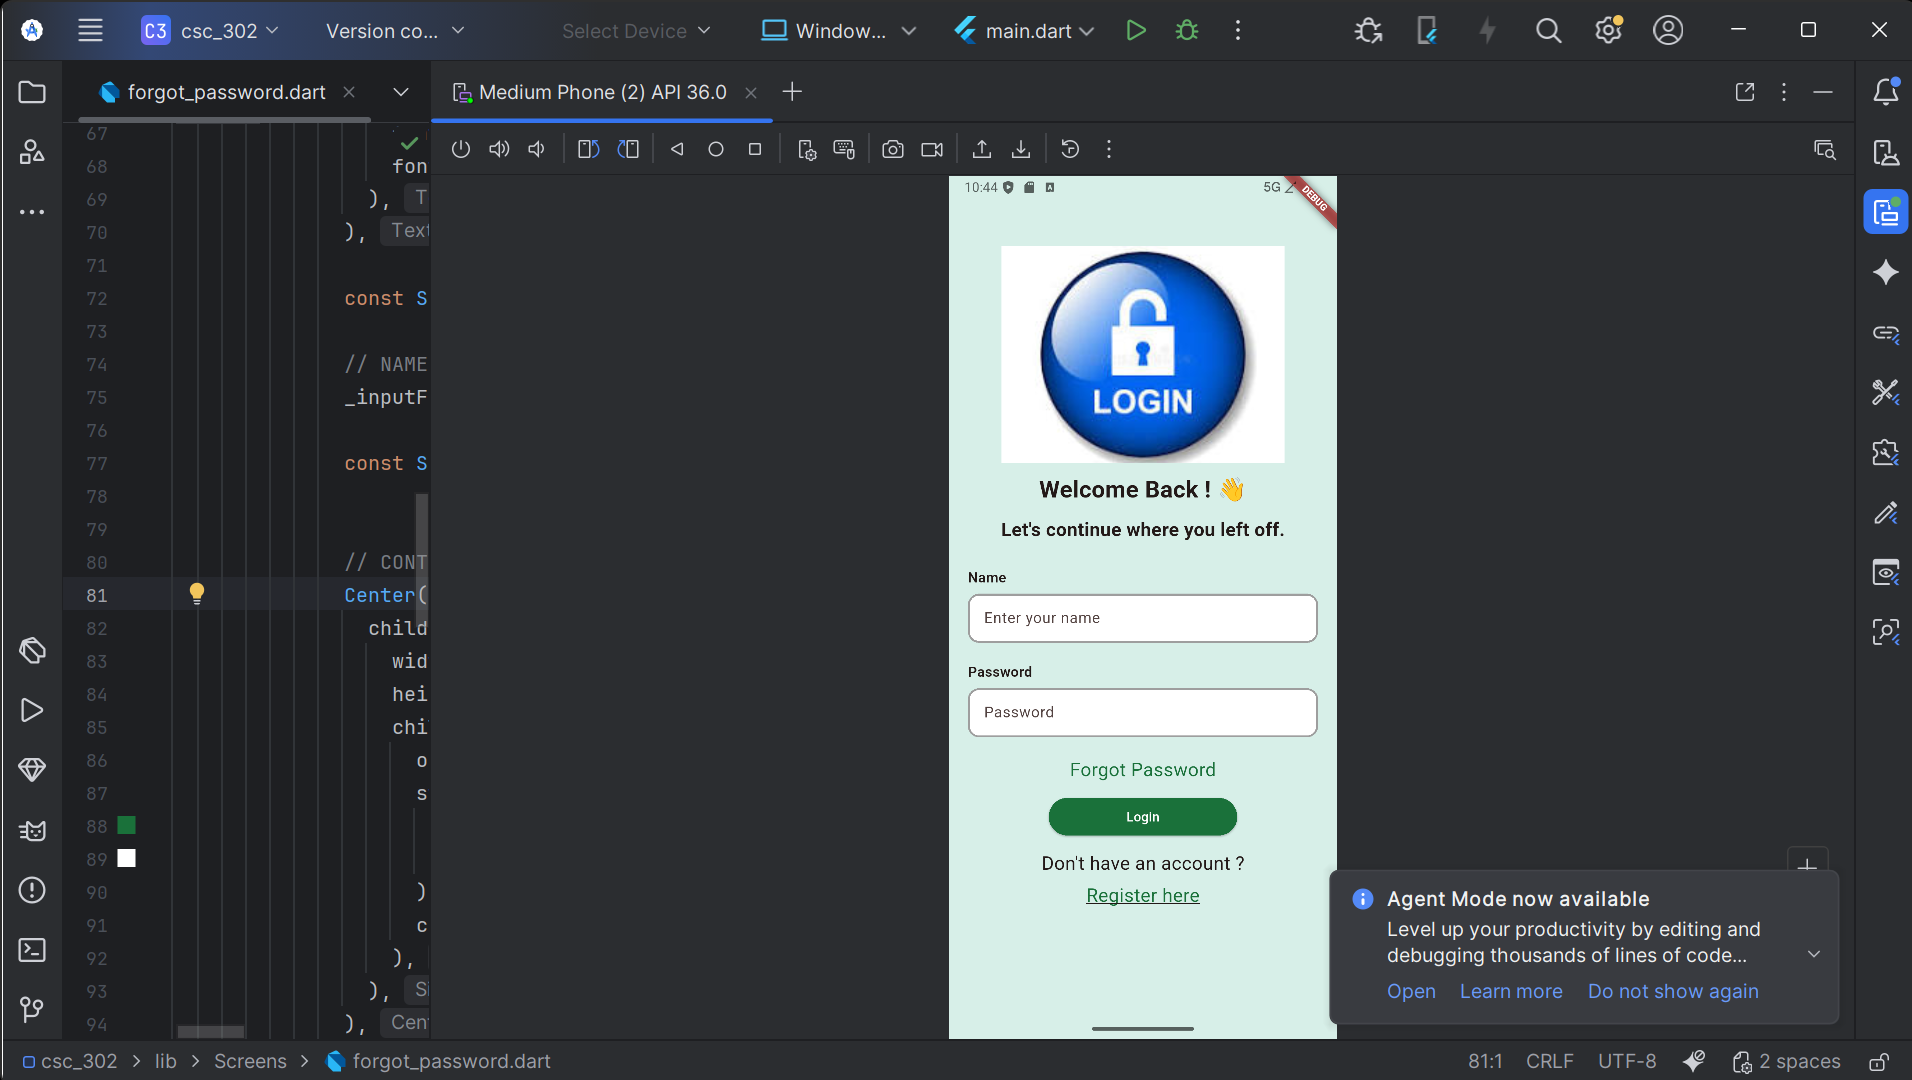
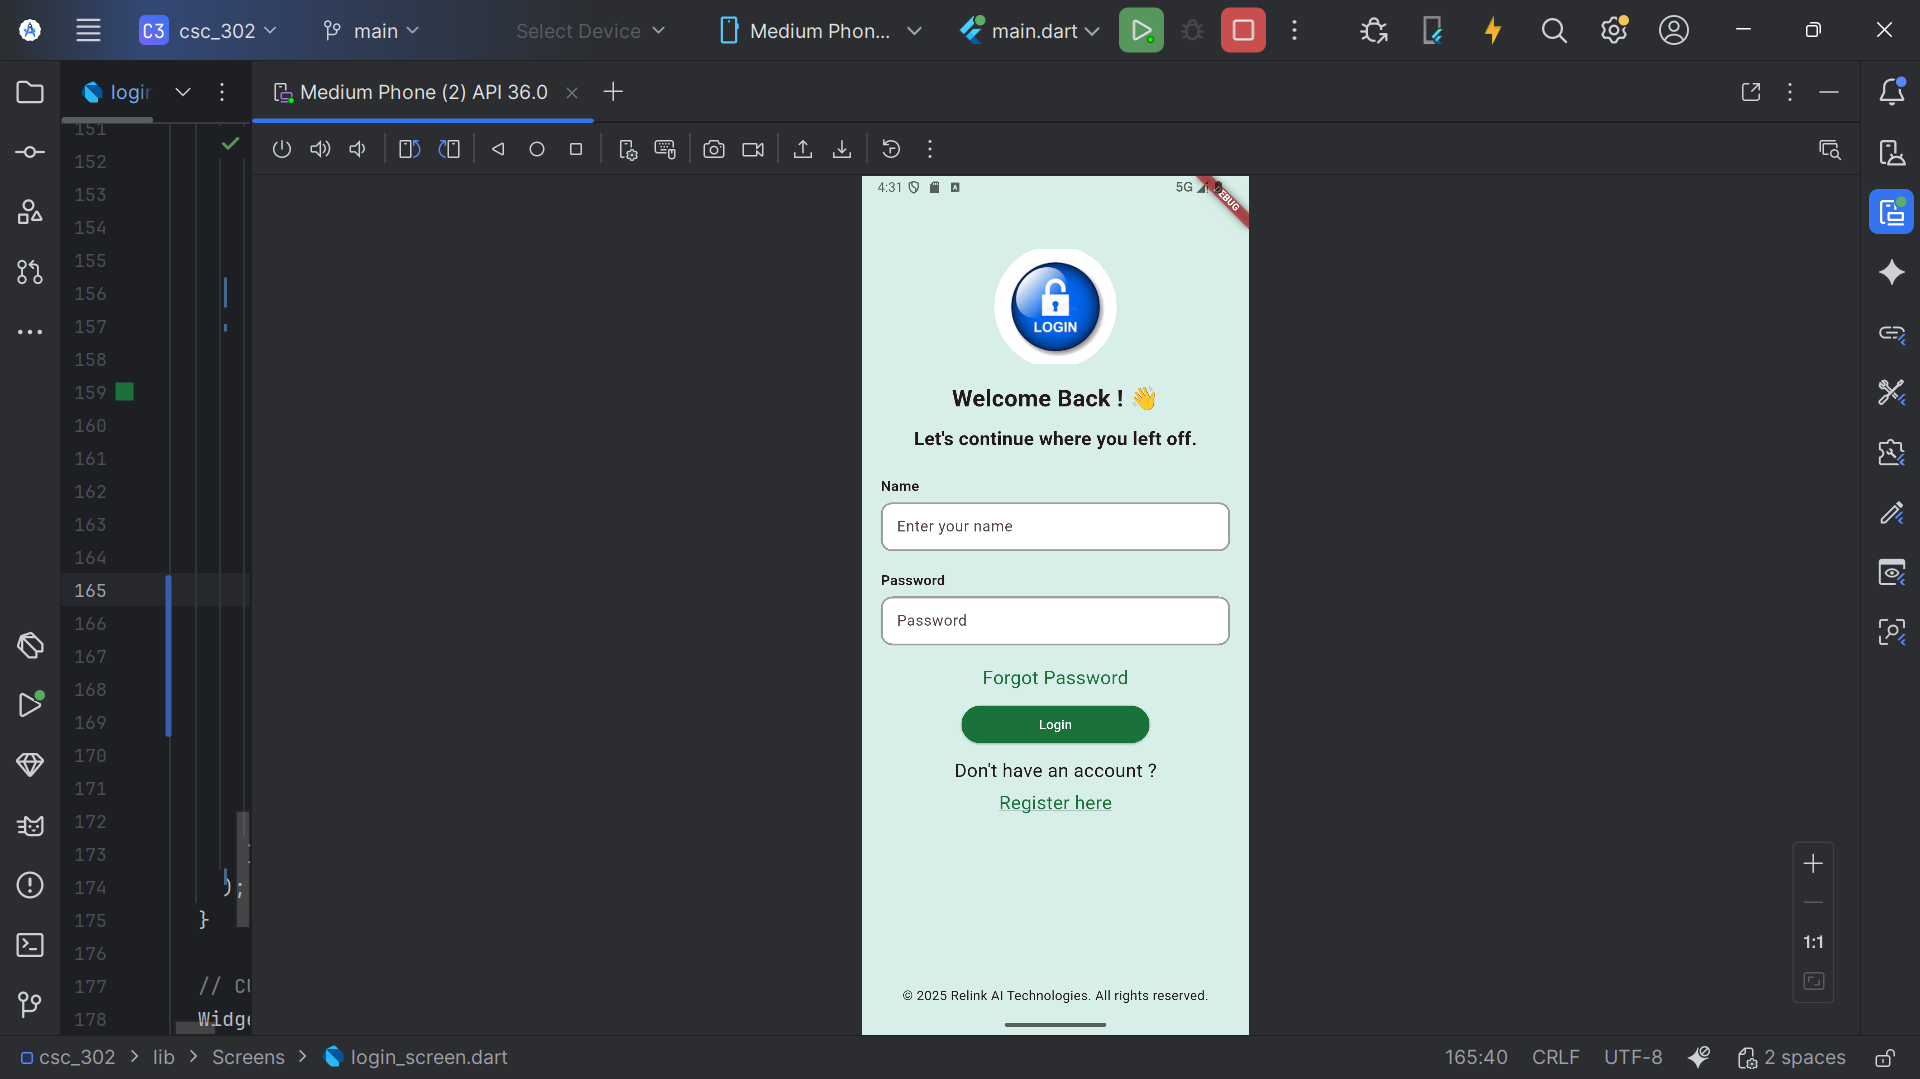
Added minor changes to all three pages

diff --git a/lib/Screens/register.dart b/lib/Screens/register.dart
@@ -16,13 +16,13 @@ class Register extends StatelessWidget {
             crossAxisAlignment: CrossAxisAlignment.start,
             children: [
 
-              // TOP IMAGE
+
               Center(
                 child: Image.asset(
                   'assets/images/brain_ai.jpg',
                   width: 250,
                   height: 130,
-                  fit: BoxFit.cover,
+                  fit: BoxFit.contain,
                 ),
               ),
 
@@ -91,7 +91,7 @@ class Register extends StatelessWidget {
                 children: [
                   Expanded(
                     flex: 1,
-                    child: _inputField("(+234)"),
+                    child: _inputField("+234"),
                   ),
                   const SizedBox(width: 10),
                   Expanded(
@@ -141,6 +141,7 @@ class Register extends StatelessWidget {
                   Text(
                     "Terms of Service",
                     style: TextStyle(fontSize: 14,
+                    fontWeight: FontWeight.w800,
                     decoration: TextDecoration.underline),
                   )
                 ],
@@ -151,6 +152,7 @@ class Register extends StatelessWidget {
                   Text(
                     "Non-Discriminatory Policy ",
                     style: TextStyle(fontSize: 14,
+                        fontWeight: FontWeight.w800,
                     decoration: TextDecoration.underline),
                   ),
                   Text(
@@ -160,6 +162,7 @@ class Register extends StatelessWidget {
                   Text(
                     "Privacy Policy",
                     style: TextStyle(fontSize: 14,
+                        fontWeight: FontWeight.w800,
                         decoration: TextDecoration.underline),
                   )
                 ],
@@ -170,7 +173,10 @@ class Register extends StatelessWidget {
               const Center(
                   child: Text(
                       "OR", style: 
-                  TextStyle(fontSize: 14)
+                  TextStyle(
+                      fontSize: 14,
+                    fontWeight: FontWeight.w800,
+                  )
                   )
               ),
 

diff --git a/lib/Screens/forgot_password.dart b/lib/Screens/forgot_password.dart
@@ -24,11 +24,13 @@ class _ForgotPasswordState extends State<ForgotPassword> {
 
               // TOP IMAGE
               Center(
-                child: Image.asset(
-                  'assets/images/forget.jpeg',
-                  width: 250,
-                  height: 180,
-                  fit: BoxFit.cover,
+                child: Container(
+                  width: 160,
+                  height: 160,
+                  decoration: BoxDecoration(
+                      shape: BoxShape.circle,
+                      image: DecorationImage(image: AssetImage("assets/images/forget.jpeg"))
+                  ),
                 ),
               ),
 
@@ -131,8 +133,6 @@ class _ForgotPasswordState extends State<ForgotPassword> {
                   child: Text(
                     "Return to Login page",
                     style: TextStyle(
-                      decoration:
-                      TextDecoration.underline,
                       color: Color(0xFF1A713A),
                       fontSize: 20,
                     ),
@@ -140,7 +140,11 @@ class _ForgotPasswordState extends State<ForgotPassword> {
                 ),
               ),
 
-              const SizedBox(height: 30),
+              const SizedBox(height: 200),
+
+              Center(
+                child: Text("© 2025 Relink AI Technologies. All rights reserved."),
+              )
             ],
           ),
         ),

diff --git a/lib/Screens/login_screen.dart b/lib/Screens/login_screen.dart
@@ -25,16 +25,18 @@ class _LoginState extends State<Login> {
 
               // TOP IMAGE
               Center(
-                child: Image.asset(
-                  'assets/images/login.jpeg',
-                  width: 300,
-                  height: 230,
-                  fit: BoxFit.cover,
-                ),
+               child: Container(
+                 width: 130,
+                 height: 130,
+                 decoration: BoxDecoration(
+                   shape: BoxShape.circle,
+                   image: DecorationImage(image: AssetImage("assets/images/login.jpeg"))
+                 ),
+               ),
               ),
 
 
-              const SizedBox(height: 10),
+              const SizedBox(height: 15),
 
               // TITLE
               const Center(
@@ -160,7 +162,11 @@ class _LoginState extends State<Login> {
                   ),
                 ),
               ),
-              const SizedBox(height: 30),
+              const SizedBox(height: 180),
+
+              Center(
+                child: Text("© 2025 Relink AI Technologies. All rights reserved."),
+              )
             ],
           ),
         ),

diff --git a/README.md b/README.md
@@ -1,3 +1,8 @@
+# 1. Login Page
 ![Login Page Screenshot](assets/screenshots/login_page.png)
-![Register Page Screenshot](assets/screenshots/register_page.png)
-![Forgot Password Page Screenshot](assets/screenshots/forgot_password_page.png)
+
+# 2. Sign Up / Register Page
+![Register Page Screenshot](assets/screenshots/register.png)
+
+# 3. Forgot Password Page
+![Forgot Password Page Screenshot](assets/screenshots/forgot.png)
